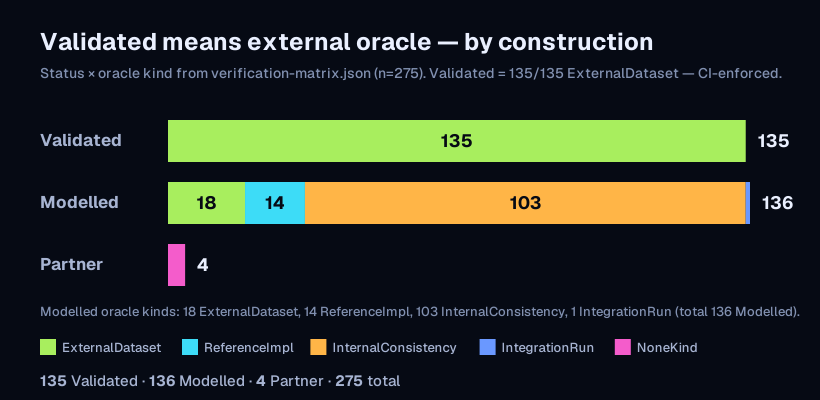
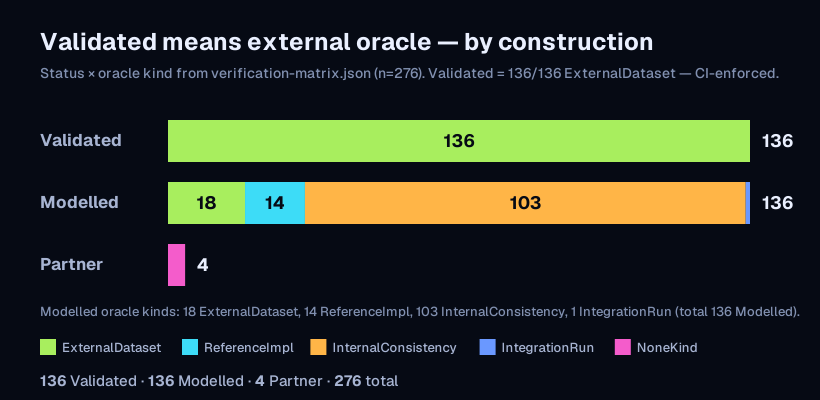
ppp_real: registered WTZR result (P1-P3, D hold; Z 1.7 cm data-gated); VALIDATED ledger row; regenerate ledger, README counts, figures, provenance diagram (276: 136 V / 136 M / 4 P)

diff --git a/src/verification.rs b/src/verification.rs
@@ -298,6 +298,15 @@ pub fn verification_matrix() -> Vec<VerificationItem> {
             status: Validated,
         },
         VerificationItem {
+            requirement: "Float precise point positioning on real RINEX observations",
+            capability: "Static float PPP extended Kalman filter on real dual-frequency GPS code and carrier phase with IGS final orbits and clocks: ionosphere-free combination, satellite and receiver antenna offsets (receiver variations), solid Earth tide, phase wind-up, Shapiro delay, estimated zenith wet delay, per-arc float ambiguities with geometry-free / Melbourne-Wübbena slip detection",
+            module: "ppp_real (run_ppp, parse_antex_receiver, solid_tide_ecef, phase_windup)",
+            tests: "tests/ppp_real_wettzell_oracle.rs (IGS station WTZR, 2025-02-24 00-06 h, 30 s, held out from development: last-epoch horizontal 1.5 mm, up −2.9 cm; 04-06 h 240/240 epochs within 0.10 m 3-D, p95 6.7 cm; code-only p95 1.70 m; data-gated ZTD RMS 1.7 cm vs EUREF); ppp_real::tests",
+            oracle: "Published ITRF2020 coordinate of WTZR (IGN ITRF2020_GNSS.SSC, solution 3, propagated with its velocity) — bars pre-registered in tests/fixtures/gnss_wettzell_2025055/PREREGISTRATION_PPP.md before the filter was written; development on the co-located station WTZZ only. Not modelled: ocean loading, satellite PCV, integer ambiguity resolution",
+            oracle_kind: ExternalDataset,
+            status: Validated,
+        },
+        VerificationItem {
             requirement: "SP3 precise-clock interpolation",
             capability: "Satellite clock offset between the tabulated SP3 clock nodes by linear interpolation over the two bracketing valid nodes (the RTKLIB pephclk scheme; bad-clock sentinel skipped), and the same nodes fed to the precise-product chain as RINEX-clock-equivalent records",
             module: "sp3 (Sp3File::clock_s, clock_nodes), precise_products (ClockRinex::from_sp3)",
@@ -2827,6 +2836,13 @@ pub fn validated_oracle_basis() -> Vec<OracleBasisEntry> {
             basis: Library,
             oracle_test: "tests/sp3_interp_reference.rs",
             source: "RTKLIB peph2pos",
+            flag: "",
+        },
+        OracleBasisEntry {
+            requirement: "Float precise point positioning on real RINEX observations",
+            basis: Reference,
+            oracle_test: "tests/ppp_real_wettzell_oracle.rs",
+            source: "Published ITRF2020 coordinate of WTZR",
             flag: "",
         },
         OracleBasisEntry {

diff --git a/tests/ppp_real_wettzell_oracle.rs b/tests/ppp_real_wettzell_oracle.rs
@@ -5,6 +5,16 @@
 //! PRE-REGISTRATION: `tests/fixtures/gnss_wettzell_2025055/PREREGISTRATION_PPP.md`, committed on
 //! its own (7e62990) before the filter was written. Development used only the co-located
 //! station WTZZ (`wtzz_development_run`); WTZR is the held-out test station.
+//!
+//! RESULT of the first and only registered run (2026-10-12, on 386b531): P1, P2, P3 and D hold.
+//! Last epoch: horizontal error 0.0015 m, up −0.0289 m (bars 0.05 / 0.10 m). 04:00-05:59:30:
+//! 240 of 240 epochs within 0.10 m in 3-D, 95th percentile 0.067 m. Code-only filter 95th
+//! percentile 1.70 m (25 times the PPP figure; bar twice). 719 of 720 epochs solved; 25 phase
+//! re-initialisations (WTZZ development run: 0). That run then stopped in the data-gated Z part
+//! on a column-offset bug in this test's EUREF line parser (seconds of day read from 21..26
+//! instead of 20..25), before any assertion; fixed, the re-run reproduces the numbers above and
+//! gives Z: zenith total delay root-mean-square 0.0167 m against the EUREF product at the four
+//! hourly epochs 02:30-05:30 (bar 0.02 m; not part of the promotion rule, product not vendored).
 
 use kshana::ppp_real::{enu_error, parse_antex_receiver, run_ppp, PppConfig, PppResult};
 use kshana::precise_products::{parse_antex_satellites, parse_clock_rinex, PreciseProducts};
@@ -173,8 +183,8 @@ fn wtzr_float_ppp_meets_the_registered_itrf2020_bars() {
                 .lines()
                 .filter(|l| l.starts_with(" WTZR00DEU 2025:055:"))
             {
-                let sod: f64 = l[21..26].parse().unwrap();
-                let ztd_mm: f64 = l[26..].split_whitespace().next().unwrap().parse().unwrap();
+                let sod: f64 = l[20..25].parse().unwrap();
+                let ztd_mm: f64 = l[25..].split_whitespace().next().unwrap().parse().unwrap();
                 if !(9_000.0..=19_800.0).contains(&sod) {
                     continue;
                 }

diff --git a/README.md b/README.md
@@ -20,7 +20,7 @@
 <p align="center">
   <a href="https://github.com/ashfordeOU/kshana/actions/workflows/ci.yml"><img src="https://img.shields.io/github/actions/workflow/status/ashfordeOU/kshana/ci.yml?branch=main&event=push&label=CI&style=flat-square&labelColor=0A1226" height="18" alt="Continuous integration status on main"></a>
   <a href="docs/COVERAGE.md"><img src="https://img.shields.io/badge/coverage-~95%25-377D0C?style=flat-square&labelColor=0A1226" height="18" alt="Line coverage near 95 % of src/, measured in docs/COVERAGE.md and gated at 85 % in continuous integration"></a>
-  <a href="#evidence"><img src="https://img.shields.io/badge/validated-135%2F275-377D0C?style=flat-square&labelColor=0A1226" height="18" alt="135 of 275 capabilities VALIDATED against an independent external oracle, from the verification matrix"></a>
+  <a href="#evidence"><img src="https://img.shields.io/badge/validated-136%2F276-377D0C?style=flat-square&labelColor=0A1226" height="18" alt="136 of 276 capabilities VALIDATED against an independent external oracle, from the verification matrix"></a>
   <a href="https://sonarcloud.io/summary/overall?id=ashfordeOU_kshana"><img src="https://img.shields.io/sonar/quality_gate/ashfordeOU_kshana?server=https%3A%2F%2Fsonarcloud.io&label=quality&style=flat-square&labelColor=0A1226" height="18" alt="SonarQube Cloud quality gate status"></a>
   <a href="https://github.com/ashfordeOU/kshana/releases"><img src="https://img.shields.io/badge/release-v0.35.0-066A86?style=flat-square&labelColor=0A1226" height="18" alt="Release v0.35.0"></a>
   <a href="LICENSE"><img src="https://img.shields.io/badge/licence-AGPL--3.0-3F4B67?style=flat-square&labelColor=0A1226" height="18" alt="Licence: AGPL-3.0-only"></a>
@@ -133,7 +133,7 @@ them, and you can pin up to four runs and compare them side by side.
 <picture>
   <source media="(prefers-color-scheme: dark)" srcset="docs/assets/readme/studio/studio-home-dark.jpg">
   <source media="(prefers-color-scheme: light)" srcset="docs/assets/readme/studio/studio-home-light.jpg">
-  <img src="docs/assets/readme/studio/studio-home-light.jpg" alt="Kshana Studio, Simple view, opening screen, titled What would you like to find out?, with the engine v0.35.0 live and, in the top bar, three links: Training debrief, Interference map and Receiver trust. Four questions: how many satellites can I see anywhere on Earth, can I trust my position fix, how long can a clock keep time without satellites, and what does a jammer do to my receiver. Below the first, its recorded result: at least 22 satellites in view at every place and 31 on average with GPS, Galileo, BeiDou and GLONASS together, a fix possible at 100 % of places and times, on a world map of satellites in view, with an Open this result button. Beside it, Everything Kshana can do: 16 areas and 139 ready-to-run scenarios, each tile with a small chart from a recorded run and its share of validated methods, and the ledger's 135 of 275 capabilities validated." width="100%">
+  <img src="docs/assets/readme/studio/studio-home-light.jpg" alt="Kshana Studio, Simple view, opening screen, titled What would you like to find out?, with the engine v0.35.0 live and, in the top bar, three links: Training debrief, Interference map and Receiver trust. Four questions: how many satellites can I see anywhere on Earth, can I trust my position fix, how long can a clock keep time without satellites, and what does a jammer do to my receiver. Below the first, its recorded result: at least 22 satellites in view at every place and 31 on average with GPS, Galileo, BeiDou and GLONASS together, a fix possible at 100 % of places and times, on a world map of satellites in view, with an Open this result button. Beside it, Everything Kshana can do: 16 areas and 139 ready-to-run scenarios, each tile with a small chart from a recorded run and its share of validated methods, and the ledger's 136 of 276 capabilities validated." width="100%">
 </picture>
 
 <picture>
@@ -521,7 +521,7 @@ start from.
 
 <p><a href="docs/SGP4-VALIDATION.md"><img src="https://img.shields.io/badge/SGP4-666%2F666%20AIAA%20vectors%20%C2%B7%20worst%204.12%20mm-377D0C?style=flat-square&labelColor=0A1226" alt="SGP4 checked against all 666 AIAA 2006-6753 reference vectors, worst position error 4.12 mm"></a></p>
 
-<strong>135 of 275</strong> capabilities validated against independent external oracles; 136 honestly labelled Modelled.
+<strong>136 of 276</strong> capabilities validated against independent external oracles; 136 honestly labelled Modelled.
 Each row of the verification matrix names a capability, the oracle it is checked against,
 the test that runs the check, and the label that follows. Continuous integration (CI) makes
 it impossible to call a capability VALIDATED without an independent external oracle.
@@ -529,12 +529,12 @@ it impossible to call a capability VALIDATED without an independent external ora
 <picture>
   <source media="(prefers-color-scheme: dark)" srcset="docs/assets/readme/flow-verification-dark.svg">
   <source media="(prefers-color-scheme: light)" srcset="docs/assets/readme/flow-verification-light.svg">
-  <img src="docs/assets/readme/flow-verification-light.svg" alt="How a capability earns its label. Each row of the verification matrix names a capability, the oracle it is checked against, the test that runs the check in continuous integration, and the label that follows. A row may be VALIDATED only with an independent external oracle; otherwise it is MODELLED, or PARTNER when a hardware partner owns it. Example: SGP4/SDP4, Cowell 6-DOF + perturbations, batch/sequential OD, oracle AIAA 2006-6753 SGP4 verification vectors, test tests/sgp4_verification.rs, label VALIDATED. Live counts: 135 VALIDATED, 136 MODELLED, 4 PARTNER of 275 rows. In all, 135 capabilities validated against independent external oracles; 136 more are honestly labelled MODELLED and 4 are PARTNER-owned." width="100%">
+  <img src="docs/assets/readme/flow-verification-light.svg" alt="How a capability earns its label. Each row of the verification matrix names a capability, the oracle it is checked against, the test that runs the check in continuous integration, and the label that follows. A row may be VALIDATED only with an independent external oracle; otherwise it is MODELLED, or PARTNER when a hardware partner owns it. Example: SGP4/SDP4, Cowell 6-DOF + perturbations, batch/sequential OD, oracle AIAA 2006-6753 SGP4 verification vectors, test tests/sgp4_verification.rs, label VALIDATED. Live counts: 136 VALIDATED, 136 MODELLED, 4 PARTNER of 276 rows. In all, 136 capabilities validated against independent external oracles; 136 more are honestly labelled MODELLED and 4 are PARTNER-owned." width="100%">
 </picture>
 
 | Label | Rows | Meaning |
 |---|---|---|
-| VALIDATED | 135 | an independent external oracle agrees: real data, an independent implementation or published reference vectors |
+| VALIDATED | 136 | an independent external oracle agrees: real data, an independent implementation or published reference vectors |
 | MODELLED | 136 | checked against analytic truth or simulation self-consistency, and said out loud |
 | PARTNER | 4 | owned by a hardware partner; Kshana holds no oracle for it |
 
@@ -544,7 +544,7 @@ model to 0.08 m against Orekit 12.2; Galileo to 0.61 m and Swarm-A to 0.10 m aga
 precise ephemerides of the European Space Agency (ESA). Tests hold near 95 % line coverage of
 `src/`, gated at 85 % in CI. The ledger is
 [`docs/VERIFICATION-MATRIX.md`](docs/VERIFICATION-MATRIX.md), generated from
-`src/verification.rs`: the [full 275-row matrix](docs/VERIFICATION-MATRIX.md), and why each
+`src/verification.rs`: the [full 276-row matrix](docs/VERIFICATION-MATRIX.md), and why each
 Modelled row has no external oracle in [`docs/MODELLED-RATIONALE.md`](docs/MODELLED-RATIONALE.md).
 
 <details>
@@ -566,7 +566,7 @@ Modelled row has no external oracle in [`docs/MODELLED-RATIONALE.md`](docs/MODEL
 ### Validation at a glance
 
 Every row is enforced by a named test in CI. This table is a **curated highlight**;
-the full machine-checked matrix is **275 rows — 135 VALIDATED, 136 MODELLED, 4 PARTNER**
+the full machine-checked matrix is **276 rows — 136 VALIDATED, 136 MODELLED, 4 PARTNER**
 (`src/verification.rs`), with the complete evidence (and what is honestly *not* yet
 validated) in [`docs/VALIDATION.md`](docs/VALIDATION.md) and the per-release
 [`kshana-validation-summary.html`](https://github.com/ashfordeOU/kshana/releases)
@@ -618,20 +618,20 @@ The **Status** column states the *kind* of evidence, matching the validation lad
 | CI | Test coverage | **~95 % line** on `src/` excluding `src/*_data.rs` and `src/main.rs`, gated ≥ 85 % | cargo-tarpaulin (LLVM engine) |
 
 <p align="center">
-  <img src="docs/assets/diagrams/validation-provenance.png" alt="How a capability earns its label: Requirement maps to a module in src, to a test in tests, to an external oracle (real dataset, independent reference implementation, or published vectors), to a status — with a CI-enforced guard that no capability can be Validated without an external oracle. Live counts: 135 Validated, 136 Modelled, 4 Partner, 275 total" width="900">
+  <img src="docs/assets/diagrams/validation-provenance.png" alt="How a capability earns its label: Requirement maps to a module in src, to a test in tests, to an external oracle (real dataset, independent reference implementation, or published vectors), to a status — with a CI-enforced guard that no capability can be Validated without an external oracle. Live counts: 136 Validated, 136 Modelled, 4 Partner, 276 total" width="900">
   <br><sub>How a capability earns its label — the CI-enforced invariant: no external oracle ⇒ cannot be Validated · <a href="docs/assets/diagrams/validation-provenance.svg">SVG</a></sub>
 </p>
 
 <p align="center">
-  <img src="docs/assets/figures/oracle-kind-stacked.png" alt="How each claim is backed: the Validated column is 135 of 135 ExternalDataset by construction (CI-enforced); Modelled rows are honestly tagged InternalConsistency, ReferenceImpl, or ExternalDataset; Partner rows have no Kshana oracle" width="62%">
+  <img src="docs/assets/figures/oracle-kind-stacked.png" alt="How each claim is backed: the Validated column is 136 of 136 ExternalDataset by construction (CI-enforced); Modelled rows are honestly tagged InternalConsistency, ReferenceImpl, or ExternalDataset; Partner rows have no Kshana oracle" width="62%">
   <br>
   <img src="docs/assets/figures/sgp4-regime-bars.png" alt="SGP4/SDP4 worst-case position error vs the AIAA 2006-6753 reference by regime, log scale: every regime is far below the AIAA tolerance, worst case 4.12 mm in the deep-space non-resonant regime" width="96%">
   <br><sub>Top: every Validated row is backed by an external dataset, by construction. Bottom: SGP4 matches the official reference in every regime (worst 4.12 mm). <a href="docs/assets/figures/oracle-kind-stacked.svg">SVG</a> · <a href="docs/assets/figures/sgp4-regime-bars.svg">SVG</a></sub>
 </p>
 
 <p align="center">
-  <img src="docs/assets/figures/validation-breakdown.png" alt="Verification status across all 275 capabilities: 135 Validated (checked vs external oracle), 136 Modelled, 4 Partner-owned" width="780">
-  <br><sub>135 Validated · 136 Modelled · 4 Partner — <a href="docs/assets/figures/validation-breakdown.svg">SVG</a></sub>
+  <img src="docs/assets/figures/validation-breakdown.png" alt="Verification status across all 276 capabilities: 136 Validated (checked vs external oracle), 136 Modelled, 4 Partner-owned" width="780">
+  <br><sub>136 Validated · 136 Modelled · 4 Partner — <a href="docs/assets/figures/validation-breakdown.svg">SVG</a></sub>
 </p>
 
 </details>
@@ -725,7 +725,7 @@ top as a separate overlay that depends on the engine and never forks it.
 <picture>
   <source media="(prefers-color-scheme: dark)" srcset="docs/assets/readme/architecture-dark.svg">
   <source media="(prefers-color-scheme: light)" srcset="docs/assets/readme/architecture-light.svg">
-  <img src="docs/assets/readme/architecture-light.svg" alt="Kshana's architecture: one open engine at the centre, kshana 0.35.0 under the AGPL-3.0, with api::run_toml, a typed dispatch over 76 kinds, and the verification ledger of 275 capabilities (135 VALIDATED, 136 MODELLED, 4 PARTNER). Around it, every surface runs the same engine: Command line (cargo install kshana); Rust library (cargo add kshana); Python (pip install kshana); WebAssembly + Kshana Studio (npm install kshana); MCP server (cargo install kshana-mcp); Docker image (ghcr.io/ashfordeou/kshana-mcp); JetBrains plugin (Marketplace: &quot;Kshana&quot;). Below it, Kshana Pro, a proprietary overlay that depends on the open engine as a library and never forks it, and adds no physical model." width="100%">
+  <img src="docs/assets/readme/architecture-light.svg" alt="Kshana's architecture: one open engine at the centre, kshana 0.35.0 under the AGPL-3.0, with api::run_toml, a typed dispatch over 76 kinds, and the verification ledger of 276 capabilities (136 VALIDATED, 136 MODELLED, 4 PARTNER). Around it, every surface runs the same engine: Command line (cargo install kshana); Rust library (cargo add kshana); Python (pip install kshana); WebAssembly + Kshana Studio (npm install kshana); MCP server (cargo install kshana-mcp); Docker image (ghcr.io/ashfordeou/kshana-mcp); JetBrains plugin (Marketplace: &quot;Kshana&quot;). Below it, Kshana Pro, a proprietary overlay that depends on the open engine as a library and never forks it, and adds no physical model." width="100%">
 </picture>
 
 <details>
@@ -734,7 +734,7 @@ top as a separate overlay that depends on the engine and never forks it.
 <picture>
   <source media="(prefers-color-scheme: dark)" srcset="docs/assets/readme/flow-architecture-dark.svg">
   <source media="(prefers-color-scheme: light)" srcset="docs/assets/readme/flow-architecture-light.svg">
-  <img src="docs/assets/readme/flow-architecture-light.svg" alt="Kshana's architecture in layers. Five front doors (command line, Python, JavaScript and WebAssembly, the MCP server and the JetBrains plugin) reach one api::run_toml, a typed dispatch over 76 kinds. Beneath it sit eight domain layers: time and frames, clocks and timing, inertial and fusion, GNSS and integrity, astrodynamics, LEO PNT, Moon, Mars and deep space, and missions and studies, on a shared core, all cross-referenced by the verification module, the machine-checked matrix of 275 capabilities that is the single source of truth for every label." width="100%">
+  <img src="docs/assets/readme/flow-architecture-light.svg" alt="Kshana's architecture in layers. Five front doors (command line, Python, JavaScript and WebAssembly, the MCP server and the JetBrains plugin) reach one api::run_toml, a typed dispatch over 76 kinds. Beneath it sit eight domain layers: time and frames, clocks and timing, inertial and fusion, GNSS and integrity, astrodynamics, LEO PNT, Moon, Mars and deep space, and missions and studies, on a shared core, all cross-referenced by the verification module, the machine-checked matrix of 276 capabilities that is the single source of truth for every label." width="100%">
 </picture>
 
 **One engine, many front doors.** A single Rust core (`kshana`) runs every scenario,

diff --git a/docs/VERIFICATION-MATRIX.md b/docs/VERIFICATION-MATRIX.md
@@ -2,7 +2,7 @@
 
 <!-- Generated by `cargo run --bin gen_validation_artifacts` from src/verification.rs; pinned by tests/verification_artifacts_doc_sync.rs. Do not edit by hand. -->
 
-The complete, machine-checked evidence ledger: **275 rows — 135 VALIDATED, 136 MODELLED, 4 PARTNER**. A row may be VALIDATED only with an independent external oracle (the matrix invariant tests enforce this). The same data, with clickable per-row links to each test, module and committed fixture, is the *Validation ledger* on https://kshana.dev. See [MODELLED-RATIONALE.md](MODELLED-RATIONALE.md) for why each Modelled row is not externally validated.
+The complete, machine-checked evidence ledger: **276 rows — 136 VALIDATED, 136 MODELLED, 4 PARTNER**. A row may be VALIDATED only with an independent external oracle (the matrix invariant tests enforce this). The same data, with clickable per-row links to each test, module and committed fixture, is the *Validation ledger* on https://kshana.dev. See [MODELLED-RATIONALE.md](MODELLED-RATIONALE.md) for why each Modelled row is not externally validated.
 
 | Requirement | Capability | Module | Tests | Oracle | Status |
 |---|---|---|---|---|---|
@@ -22,6 +22,7 @@ The complete, machine-checked evidence ledger: **275 rows — 135 VALIDATED, 136
 | Deep-space radiometric light-time solver | Retarded (down-leg) one-way light-time solution τ = |r_rx − r_target(t−τ)|/c for deep-space radiometric navigation (Earth→Mars/Sun/Moon) | radiometric (light_time_solution) | tests/deep_space_mars_radiometric_reference.rs (24 legs over 8 epochs 2020–2027 vs ANISE DE440; worst |Δτ| 1.03e-9 s, |Δrange| 0.31 m at up to 2.5 AU) | ANISE 0.10 (Nyx Space, MPL-2.0) converged-Newtonian aberration light time (Aberration::CN; SPICE spkapo-equivalent) over JPL DE440 — an independent Rust SPICE implementation; kshana's fixed-point retarded solver matched to sub-nanosecond. The broader Doppler / Shapiro / reduced-dynamic OD figures stay MODELLED | VALIDATED |
 | Broadcast-ephemeris satellite position (multi-GNSS RINEX) | IS-GPS-200 / Galileo-OS / BeiDou-OS broadcast-ephemeris Keplerian → ECEF satellite position from a parsed RINEX-3 navigation record | rinex (parse_nav, RinexEphemeris::sv_position_ecef) | tests/rinex_sp3_interop_reference.rs (84 SV-epoch cases: GPS + Galileo + BeiDou-MEO, 12 SVs × 7 offsets, vs RTKLIB eph2pos; worst per-axis |Δ| 6.2e-8 m) | RTKLIB v2.4.2-p13 eph2pos() compiled from C source (T. Takasu, BSD-2-Clause) — an independent IS-GPS-200/SIS-ICD implementation, fed the identical RINEX-3 nav records; satellite ECEF position matched to ~62 nm. (SP3 precise-ephemeris interpolation is validated separately — see 'SP3 precise-ephemeris interpolation') | VALIDATED |
 | SP3 precise-ephemeris interpolation | IGS-standard Lagrange interpolation of SP3 precise-ephemeris satellite positions with the per-node Earth-rotation correction (rotate each node by ω⊕·(t_node−t) into the query instant's Earth-fixed frame before the polynomial fit) | sp3 (Sp3Interpolator::position_ecef) | tests/sp3_interp_reference.rs (72 off-node SV-epoch cases / 6 satellites vs RTKLIB peph2pos; worst per-axis |Δ| 1.5e-8 m) | RTKLIB peph2pos() compiled from C source (preceph.c; T. Takasu, BSD-2-Clause) — the de-facto IGS reference, an independent implementation; kshana's interpolator (now carrying the same Earth-rotation node correction) matched to ~15 nm on a real SP3 product, down from ~5.5 cm before the correction | VALIDATED |
+| Float precise point positioning on real RINEX observations | Static float PPP extended Kalman filter on real dual-frequency GPS code and carrier phase with IGS final orbits and clocks: ionosphere-free combination, satellite and receiver antenna offsets (receiver variations), solid Earth tide, phase wind-up, Shapiro delay, estimated zenith wet delay, per-arc float ambiguities with geometry-free / Melbourne-Wübbena slip detection | ppp_real (run_ppp, parse_antex_receiver, solid_tide_ecef, phase_windup) | tests/ppp_real_wettzell_oracle.rs (IGS station WTZR, 2025-02-24 00-06 h, 30 s, held out from development: last-epoch horizontal 1.5 mm, up −2.9 cm; 04-06 h 240/240 epochs within 0.10 m 3-D, p95 6.7 cm; code-only p95 1.70 m; data-gated ZTD RMS 1.7 cm vs EUREF); ppp_real::tests | Published ITRF2020 coordinate of WTZR (IGN ITRF2020_GNSS.SSC, solution 3, propagated with its velocity) — bars pre-registered in tests/fixtures/gnss_wettzell_2025055/PREREGISTRATION_PPP.md before the filter was written; development on the co-located station WTZZ only. Not modelled: ocean loading, satellite PCV, integer ambiguity resolution | VALIDATED |
 | SP3 precise-clock interpolation | Satellite clock offset between the tabulated SP3 clock nodes by linear interpolation over the two bracketing valid nodes (the RTKLIB pephclk scheme; bad-clock sentinel skipped), and the same nodes fed to the precise-product chain as RINEX-clock-equivalent records | sp3 (Sp3File::clock_s, clock_nodes), precise_products (ClockRinex::from_sp3) | tests/sp3_clock_igs_oracle.rs (IGS final 15 min SP3 of 2025-02-24 vs the IGS final 30 s clocks, 32 GPS satellites: node median |Δ| 2.6e-13 s; 3038 mid-point records RMS 0.121 ns, p95 0.265 ns; holding the node instead 4.24 ns RMS); sp3::tests::clock_interpolation_is_linear_between_valid_nodes_and_exact_at_them | IGS final 30 s satellite clock combination (IGS0OPSFIN 30S CLK, 2025-02-24): published clock estimates at the query instants, not interpolated from the SP3; bars pre-registered in tests/fixtures/sp3_clock_igs_oracle/PREREGISTRATION.md before the first run (RMS 0.15 ns, p95 0.30 ns, node median 1e-12 s, discrimination 2x) | VALIDATED |
 | Strapdown INS mechanization | Quaternion-attitude, WGS-84 NED strapdown inertial mechanization (coning/sculling-compensated) propagating a navigation state from (Δθ, Δv) increments | inertial::mechanization, inertial::attitude, inertial::imu_errors | tests/classical_strapdown_ins_reference.rs (static/turn/coning profiles, 30 epochs each, vs NaveGo: attitude bit-identical 0 rad; velocity/position within named analytic bounds) | NaveGo v1.4 (R. Gonzalez et al., LGPL-3) run under Octave — an independent published INS toolbox driven by the identical (Δθ,Δv) increment stream. Attitude matches bit-for-bit (same NED / scalar-first-quaternion / Earth-rate / transport-rate conventions); velocity/position agree to two documented differences — the deflection-of-vertical north-gravity term NaveGo includes and kshana omits by design (plumb-bob gravity; matched to the Groves closed form to every digit, with a sanity-floor assert) and O(dt²) integrator differences — not mechanization errors | VALIDATED |
 | Gravity-field functional synthesis (gravity-aided / GNSS-free nav map) | Spherical-harmonic gravity magnitude + disturbance (mGal) from any ICGEM .gfc model; GRS80 normal gravity | gravity_sh | tests/icgem_gravity_reference.rs (GRS80 synthesis reproduces Somigliana to 3.5e-12; real ICGEM EGM2008 disturbance map physical) | GRS80 (Moritz 1980, IAG) Somigliana normal gravity + published γ_e/γ_p; real ICGEM EGM2008 field | VALIDATED |
@@ -282,4 +283,4 @@ The complete, machine-checked evidence ledger: **275 rows — 135 VALIDATED, 136
 | Compliance mapping to public frameworks | compliance (kshana compliance-report): a mapping from Kshana outputs to clauses of public frameworks by number only, filled from the runs given; a result counts for a capability only when it carries the evidence the mapping names, an empty set evidences nothing, and the wording is "supports evidence for"; the report is not a finding that any framework is met and not a rating or approval by anyone. | compliance | tests/compliance_report.rs::mapping_is_well_formed; tests/compliance_report.rs::wording_rule_holds_in_mapping_report_and_docs; tests/compliance_report.rs::empty_set_evidences_nothing; tests/compliance_report.rs::statuses_follow_the_runs_present; tests/compliance_references.rs | References checked against a script-extracted heading index of the cited public documents read 2026-10-10 (tests/compliance_references.rs). WHAT IS CHECKED: 49 cited clause, section, paragraph or heading references exist in the cited document, and 7 cited URLs resolved on the recorded date (2 via a second route); negative controls fail. WHAT IS NOT: that any paraphrase, mapping or gap is correct; EN 16803 clauses (paid, catalogue text only); later revisions; the index is not an independent implementation. | MODELLED |
 | Marine integrations: Signal K plugin, OpenCPN gate stream and score panel, reference build | The trust score, band, reasons, gate state and receiver-reported position published under navigation.gnss.kshana in a Signal K server with a warn, alarm and normal notification (integrations/signalk); the gated NMEA stream, with the fix marked invalid while trust is collapsed and a PKSHT sentence per cycle, served to OpenCPN over TCP by the gate itself or by a small relay, and a native OpenCPN score panel that reads the PKSHT sentence (integrations/opencpn); and systemd units and a container that run the gate (deploy/reference-build). Where these show output they carry the advisory statement: Advisory software, not type-approved navigation equipment (IEC 61108, IEC 61162): the operator remains responsible for the navigation of the vessel. | receiver_trust (live: the gate, its TCP listener, PKSHT); outside the crate: integrations/signalk (JavaScript), integrations/opencpn (JavaScript relay, C++ native plugin), deploy/reference-build (systemd units, container) | tests/receiver_trust_live_cli.rs (the gate and its TCP listener, Rust side); integrations/signalk/test/adapter.test.js, integrations/signalk/test/model.test.js and integrations/signalk/test/plugin.test.js (24 Node tests on recorded synthetic output); integrations/opencpn/test/relay.test.mjs (5 Node tests); integrations/opencpn/test/e2e-live.mjs (the real binary to a TCP consumer, run by hand and in CI); integrations/opencpn/plugin/test/pksht_test.cpp and integrations/opencpn/plugin/test/trust_state_test.cpp (C++ checks of the PKSHT parser and the panel state); deploy/reference-build/check-units.sh and deploy/reference-build/test-entrypoint.sh | WHAT IS CHECKED, stated narrowly: that these integrations work against the real software they are written for. EVIDENCE is committed at integrations/signalk/evidence/README.md (with its JSON files) and integrations/opencpn/evidence/README.md (with its screenshots and logs), each with the script that reproduces it. (1) Signal K: the plugin loaded into the pinned signalk-server 2.33.0 npm package, in a private loopback-only network namespace, fed synthetic data. The server's own REST and WebSocket interfaces showed the published paths, the score metadata, and a notification that went absent, warn, alarm, normal (after the hold) and warn again when the data stopped. With the real kshana run by the plugin on the NMEA the server itself received, the notification went warn then alarm and the reported position was published; the server's own navigation.position was written by its NMEA provider, never by the plugin. Re-run against live JSON schema 1.2. (2) OpenCPN: the plugin built against the OpenCPN plugin API header and wxWidgets 3.2.4, loaded into the Ubuntu 24.04 package of OpenCPN 5.8.4 under a virtual display; OpenCPN loaded it, ran its initialisation and handed it the PKSHT sentences of the gated stream, and the panel turned red on the untrusted band. In one clean run, OpenCPN's own ship position stopped updating, and its fix indicator dropped, when the gate marked the fix invalid. A second run fed directly by the gate's TCP listener showed delivery to the plugin but not a clean before-and-after. (3) The relay tests replay a recorded excerpt of the gated stream through a real TCP socket and check what a consumer receives (the bytes unchanged, valid checksums on every sentence including the rewritten ones, GGA and RMC agreeing, one PKSHT per cycle with the gate field where the fix is invalid), and the end-to-end script checks that a consumer of the gate's listener receives exactly the bytes the same gate writes to standard output. (4) The PKSHT parsers (JavaScript and C++) are run over sentences recorded from kshana output and reject a wrong checksum, version or a score outside 0 to 100. (5) The systemd units are checked with systemd-analyze verify (systemd 255, binaries stubbed) and with guards for a shell in ExecStart, the restart policy and the sandbox keys; the container entrypoint's argument handling is checked with a stub binary. WHAT IS NOT: there is no external oracle for any value these integrations show. The trust values themselves are the rows above, and an integration run shows only that the plumbing carries them; that is why this row is MODELLED and not VALIDATED (docs/VALIDATION.md). No real vessel, receiver, long run, other version of either host, other operating system or desktop was used; all data are synthetic text and nothing here is a measurement. The notification's sound and visual handling by a real Signal K client, OpenCPN's toolbar button, preferences and stale state, and packaging for the OpenCPN plugin manager were not exercised. The systemd sandbox keys were checked for syntax only, not run under a live systemd, and the container image build and its health check have no committed evidence here. No detection or false-alarm figure is claimed. Advisory software, not type-approved navigation equipment (IEC 61108, IEC 61162): the operator remains responsible for the navigation of the vessel. | MODELLED |
 
-275 rows: 135 externally validated, 136 modelled, 4 partner-owned.
+276 rows: 136 externally validated, 136 modelled, 4 partner-owned.

diff --git a/README.crates.md b/README.crates.md
@@ -17,7 +17,7 @@
 
 <p align="center">
   <a href="https://github.com/AshfordeOU/kshana/releases"><img src="https://img.shields.io/badge/release-v0.35.0-066A86?style=flat-square&labelColor=0A1226" alt="Release v0.35.0"></a>
-  <a href="https://github.com/AshfordeOU/kshana/blob/main/docs/VERIFICATION-MATRIX.md"><img src="https://img.shields.io/badge/validated-135%20external%20oracles-377D0C?style=flat-square&labelColor=0A1226" alt="135 of 275 capabilities validated against independent external oracles"></a>
+  <a href="https://github.com/AshfordeOU/kshana/blob/main/docs/VERIFICATION-MATRIX.md"><img src="https://img.shields.io/badge/validated-136%20external%20oracles-377D0C?style=flat-square&labelColor=0A1226" alt="136 of 276 capabilities validated against independent external oracles"></a>
   <a href="https://github.com/AshfordeOU/kshana/blob/main/docs/COVERAGE.md"><img src="https://img.shields.io/badge/coverage-~95%25-377D0C?style=flat-square&labelColor=0A1226" alt="About 95% line coverage, gated at 85% in continuous integration"></a>
   <a href="https://github.com/AshfordeOU/kshana/blob/main/LICENSE"><img src="https://img.shields.io/badge/licence-AGPL--3.0--only-3F4B67?style=flat-square&labelColor=0A1226" alt="Licence: AGPL-3.0-only, or a commercial licence"></a>
   <a href="https://doi.org/10.5281/zenodo.20528627"><img src="https://img.shields.io/badge/DOI-10.5281%2Fzenodo.20528627-7E4B00?style=flat-square&labelColor=0A1226" alt="DOI 10.5281/zenodo.20528627"></a>
@@ -40,7 +40,7 @@ engine in your browser, compiled to WebAssembly, and uploads nothing.
 
 ## Evidence
 
-**135 of 275** capabilities validated against independent external oracles; 136 honestly labelled Modelled, 4 partner-owned.
+**136 of 276** capabilities validated against independent external oracles; 136 honestly labelled Modelled, 4 partner-owned.
 Each capability carries one label in a machine-checked ledger: VALIDATED (an independent
 external oracle agrees: real data, an independent implementation or published reference
 vectors), MODELLED (internally consistent, and said out loud) or PARTNER (a hardware partner
@@ -51,7 +51,7 @@ Cowell force model to 0.08 m against Orekit 12.2.
 <p align="center">
 <picture>
   <source media="(prefers-color-scheme: dark)" srcset="https://raw.githubusercontent.com/AshfordeOU/kshana/main/docs/assets/readme/flow-verification-dark.svg">
-  <img src="https://raw.githubusercontent.com/AshfordeOU/kshana/main/docs/assets/readme/flow-verification-light.svg" alt="How a capability earns its label: capability, oracle, test, ledger label. The verification status across all 275 capabilities: 135 Validated, 136 Modelled, 4 Partner-owned" width="100%">
+  <img src="https://raw.githubusercontent.com/AshfordeOU/kshana/main/docs/assets/readme/flow-verification-light.svg" alt="How a capability earns its label: capability, oracle, test, ledger label. The verification status across all 276 capabilities: 136 Validated, 136 Modelled, 4 Partner-owned" width="100%">
 </picture>
 </p>
 

diff --git a/README.npm.md b/README.npm.md
@@ -18,7 +18,7 @@
 
 <p align="center">
   <a href="https://github.com/AshfordeOU/kshana/releases"><img src="https://img.shields.io/badge/release-v0.35.0-066A86?style=flat-square&labelColor=0A1226" alt="Release v0.35.0"></a>
-  <a href="https://github.com/AshfordeOU/kshana/blob/main/docs/VERIFICATION-MATRIX.md"><img src="https://img.shields.io/badge/validated-135%20external%20oracles-377D0C?style=flat-square&labelColor=0A1226" alt="135 of 275 capabilities validated against independent external oracles"></a>
+  <a href="https://github.com/AshfordeOU/kshana/blob/main/docs/VERIFICATION-MATRIX.md"><img src="https://img.shields.io/badge/validated-136%20external%20oracles-377D0C?style=flat-square&labelColor=0A1226" alt="136 of 276 capabilities validated against independent external oracles"></a>
   <a href="https://github.com/AshfordeOU/kshana/blob/main/docs/COVERAGE.md"><img src="https://img.shields.io/badge/coverage-~95%25-377D0C?style=flat-square&labelColor=0A1226" alt="About 95% line coverage, gated at 85% in continuous integration"></a>
   <a href="https://github.com/AshfordeOU/kshana/blob/main/LICENSE"><img src="https://img.shields.io/badge/licence-AGPL--3.0--only-3F4B67?style=flat-square&labelColor=0A1226" alt="Licence: AGPL-3.0-only, or a commercial licence"></a>
   <a href="https://doi.org/10.5281/zenodo.20528627"><img src="https://img.shields.io/badge/DOI-10.5281%2Fzenodo.20528627-7E4B00?style=flat-square&labelColor=0A1226" alt="DOI 10.5281/zenodo.20528627"></a>
@@ -41,7 +41,7 @@ engine in your browser, compiled to WebAssembly, and uploads nothing.
 
 ## Evidence
 
-**135 of 275** capabilities validated against independent external oracles; 136 honestly labelled Modelled, 4 partner-owned.
+**136 of 276** capabilities validated against independent external oracles; 136 honestly labelled Modelled, 4 partner-owned.
 Each capability carries one label in a machine-checked ledger: VALIDATED (an independent
 external oracle agrees: real data, an independent implementation or published reference
 vectors), MODELLED (internally consistent, and said out loud) or PARTNER (a hardware partner
@@ -52,7 +52,7 @@ Cowell force model to 0.08 m against Orekit 12.2.
 <p align="center">
 <picture>
   <source media="(prefers-color-scheme: dark)" srcset="https://raw.githubusercontent.com/AshfordeOU/kshana/main/docs/assets/readme/flow-verification-dark.svg">
-  <img src="https://raw.githubusercontent.com/AshfordeOU/kshana/main/docs/assets/readme/flow-verification-light.svg" alt="How a capability earns its label: capability, oracle, test, ledger label. The verification status across all 275 capabilities: 135 Validated, 136 Modelled, 4 Partner-owned" width="100%">
+  <img src="https://raw.githubusercontent.com/AshfordeOU/kshana/main/docs/assets/readme/flow-verification-light.svg" alt="How a capability earns its label: capability, oracle, test, ledger label. The verification status across all 276 capabilities: 136 Validated, 136 Modelled, 4 Partner-owned" width="100%">
 </picture>
 </p>
 

diff --git a/README.pypi.md b/README.pypi.md
@@ -17,7 +17,7 @@
 
 <p align="center">
   <a href="https://github.com/AshfordeOU/kshana/releases"><img src="https://img.shields.io/badge/release-v0.35.0-066A86?style=flat-square&labelColor=0A1226" alt="Release v0.35.0"></a>
-  <a href="https://github.com/AshfordeOU/kshana/blob/main/docs/VERIFICATION-MATRIX.md"><img src="https://img.shields.io/badge/validated-135%20external%20oracles-377D0C?style=flat-square&labelColor=0A1226" alt="135 of 275 capabilities validated against independent external oracles"></a>
+  <a href="https://github.com/AshfordeOU/kshana/blob/main/docs/VERIFICATION-MATRIX.md"><img src="https://img.shields.io/badge/validated-136%20external%20oracles-377D0C?style=flat-square&labelColor=0A1226" alt="136 of 276 capabilities validated against independent external oracles"></a>
   <a href="https://github.com/AshfordeOU/kshana/blob/main/docs/COVERAGE.md"><img src="https://img.shields.io/badge/coverage-~95%25-377D0C?style=flat-square&labelColor=0A1226" alt="About 95% line coverage, gated at 85% in continuous integration"></a>
   <a href="https://github.com/AshfordeOU/kshana/blob/main/LICENSE"><img src="https://img.shields.io/badge/licence-AGPL--3.0--only-3F4B67?style=flat-square&labelColor=0A1226" alt="Licence: AGPL-3.0-only, or a commercial licence"></a>
   <a href="https://doi.org/10.5281/zenodo.20528627"><img src="https://img.shields.io/badge/DOI-10.5281%2Fzenodo.20528627-7E4B00?style=flat-square&labelColor=0A1226" alt="DOI 10.5281/zenodo.20528627"></a>
@@ -40,7 +40,7 @@ engine in your browser, compiled to WebAssembly, and uploads nothing.
 
 ## Evidence
 
-**135 of 275** capabilities validated against independent external oracles; 136 honestly labelled Modelled, 4 partner-owned.
+**136 of 276** capabilities validated against independent external oracles; 136 honestly labelled Modelled, 4 partner-owned.
 Each capability carries one label in a machine-checked ledger: VALIDATED (an independent
 external oracle agrees: real data, an independent implementation or published reference
 vectors), MODELLED (internally consistent, and said out loud) or PARTNER (a hardware partner
@@ -51,7 +51,7 @@ Cowell force model to 0.08 m against Orekit 12.2.
 <p align="center">
 <picture>
   <source media="(prefers-color-scheme: dark)" srcset="https://raw.githubusercontent.com/AshfordeOU/kshana/main/docs/assets/readme/flow-verification-dark.svg">
-  <img src="https://raw.githubusercontent.com/AshfordeOU/kshana/main/docs/assets/readme/flow-verification-light.svg" alt="How a capability earns its label: capability, oracle, test, ledger label. The verification status across all 275 capabilities: 135 Validated, 136 Modelled, 4 Partner-owned" width="100%">
+  <img src="https://raw.githubusercontent.com/AshfordeOU/kshana/main/docs/assets/readme/flow-verification-light.svg" alt="How a capability earns its label: capability, oracle, test, ledger label. The verification status across all 276 capabilities: 136 Validated, 136 Modelled, 4 Partner-owned" width="100%">
 </picture>
 </p>
 

diff --git a/CHANGELOG.md b/CHANGELOG.md
@@ -11,6 +11,12 @@ breaking changes are called out explicitly.
 
 ### Added
 
+- **Float PPP on real RINEX** (0.36, WP-07): `ppp_real::run_ppp`, a static float precise point
+  positioning filter on real dual-frequency GPS code and phase with IGS final products (antenna
+  offsets and variations, solid Earth tide, phase wind-up, Shapiro delay, estimated wet delay,
+  cycle-slip detection), with `parse_antex_receiver`. VALIDATED on the held-out IGS station WTZR
+  against its ITRF2020 coordinate under pre-registered bars: after 6 h the error is 1.5 mm
+  horizontal and 2.9 cm vertical, and every epoch of the last two hours is within 10 cm.
 - **SP3 precise-clock interpolation** (0.36, WP-07): `Sp3File::clock_s` and `clock_nodes`
   interpolate the tabulated SP3 satellite clocks linearly between the two bracketing valid nodes
   (bad-clock sentinel skipped), and `ClockRinex::from_sp3` feeds them to `PreciseProducts`, so
